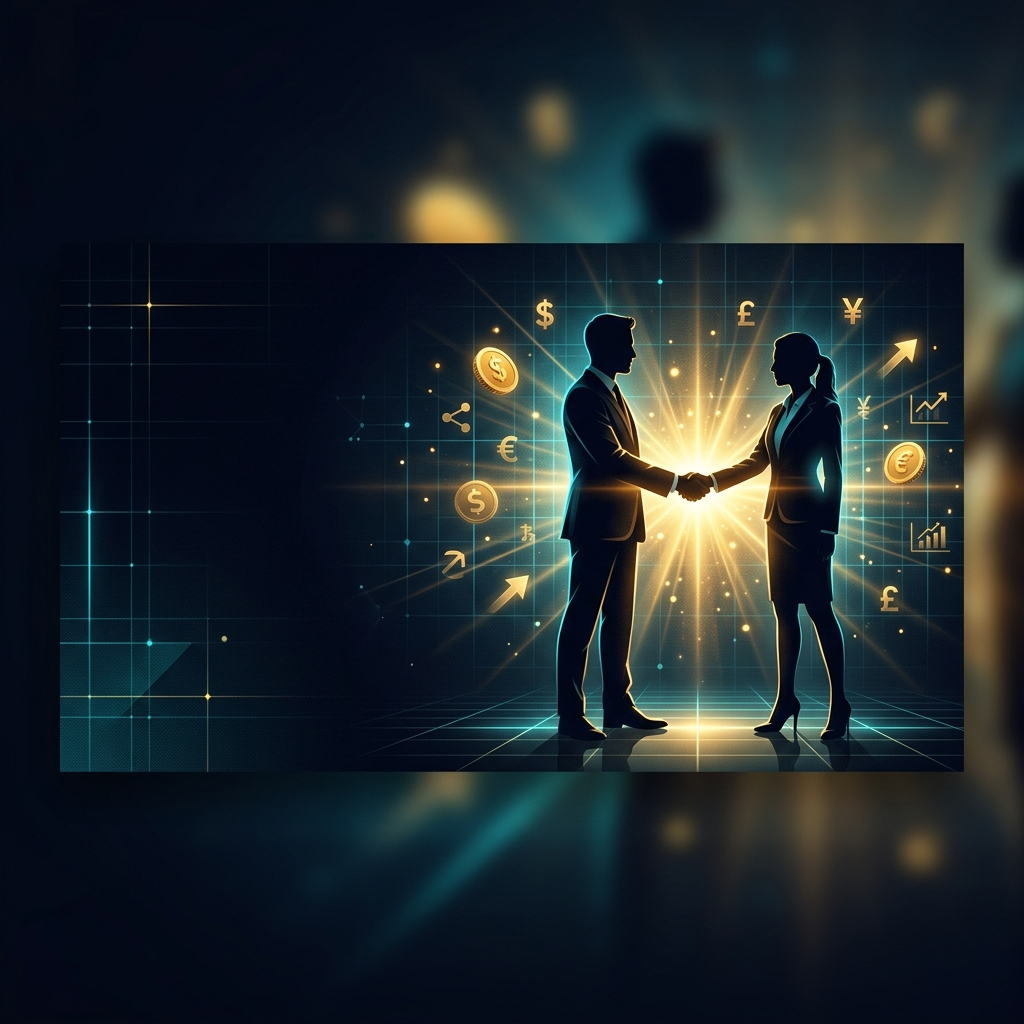
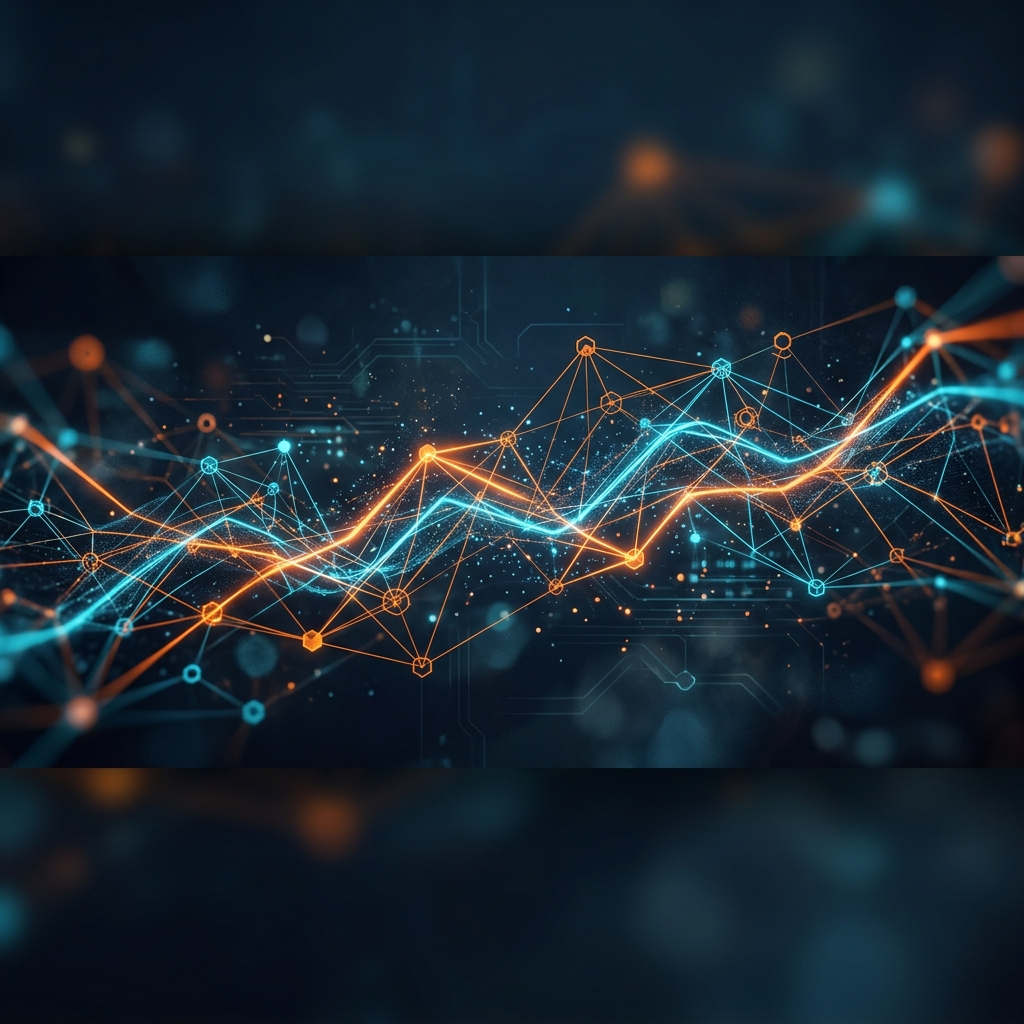
ui: Careers page grid layout, referral hero image, formal About section, label fixes
- Navbar: Jobs -> Careers
- Careers listing: Grid/Row toggle with grid default, 2-column card layout
- Referral Partner: New abstract hero image (no humans)
- Referral Partner About: Formal grouped SVG-icon sections instead of chat bubbles
- Reveal salary -> Reveal commission for Commission-type jobs
- Voice Intro -> Informal Voice Intro for ops assistant

diff --git a/src/components/sections/JobsPage.tsx b/src/components/sections/JobsPage.tsx
@@ -116,42 +116,87 @@ export default function JobsPage(){
 }
 
 function Listing(){
+  const [view, setView] = useState<'grid'|'row'>('grid');
   return(
     <div className="min-h-screen bg-neutral-950 text-neutral-50 pt-24 pb-20">
-      <div className="max-w-4xl mx-auto px-6">
+      <div className="max-w-5xl mx-auto px-6">
         <motion.div initial={{opacity:0,y:20}} animate={{opacity:1,y:0}}>
-          <div className="inline-flex items-center gap-2 px-3 py-1 rounded-full border border-neutral-800 bg-neutral-900/50 text-xs font-medium text-neutral-400 mb-6">
-            <Briefcase className="w-3 h-3 text-[#00bfff]"/>{jobs.length} open position{jobs.length!==1?'s':''}
+          <div className="flex items-center justify-between mb-6">
+            <div className="inline-flex items-center gap-2 px-3 py-1 rounded-full border border-neutral-800 bg-neutral-900/50 text-xs font-medium text-neutral-400">
+              <Briefcase className="w-3 h-3 text-[#00bfff]"/>{jobs.length} open position{jobs.length!==1?'s':''}
+            </div>
+            <div className="flex items-center gap-1 bg-neutral-900/60 border border-neutral-800 rounded-lg p-0.5">
+              <button onClick={()=>setView('grid')} className={`p-1.5 rounded-md cursor-pointer transition-all ${view==='grid' ? 'bg-neutral-800 text-white' : 'text-neutral-500 hover:text-white'}`} title="Grid view">
+                <svg className="w-4 h-4" viewBox="0 0 16 16" fill="none"><rect x="1" y="1" width="6" height="6" rx="1" stroke="currentColor" strokeWidth="1.2"/><rect x="9" y="1" width="6" height="6" rx="1" stroke="currentColor" strokeWidth="1.2"/><rect x="1" y="9" width="6" height="6" rx="1" stroke="currentColor" strokeWidth="1.2"/><rect x="9" y="9" width="6" height="6" rx="1" stroke="currentColor" strokeWidth="1.2"/></svg>
+              </button>
+              <button onClick={()=>setView('row')} className={`p-1.5 rounded-md cursor-pointer transition-all ${view==='row' ? 'bg-neutral-800 text-white' : 'text-neutral-500 hover:text-white'}`} title="Row view">
+                <svg className="w-4 h-4" viewBox="0 0 16 16" fill="none"><rect x="1" y="2" width="14" height="3.5" rx="1" stroke="currentColor" strokeWidth="1.2"/><rect x="1" y="7.5" width="14" height="3.5" rx="1" stroke="currentColor" strokeWidth="1.2"/></svg>
+              </button>
+            </div>
           </div>
           <h1 className="text-4xl md:text-6xl font-black tracking-tighter mb-3">Careers</h1>
           <p className="text-lg text-neutral-400 max-w-xl mb-12">Join a team building custom operations systems for businesses across Ghana and beyond.</p>
         </motion.div>
-        <div className="space-y-4">
-          {jobs.map((j,i)=>(
-            <motion.a key={j.id} href={`#job/${j.id}`}
-              className="block rounded-xl relative overflow-hidden border border-neutral-800 hover:border-neutral-700 transition-all group cursor-pointer shadow-[0_8px_32px_rgba(0,0,0,0.4)]"
-              initial={{opacity:0,y:20}} animate={{opacity:1,y:0}} transition={{delay:0.1+i*0.1}}>
-              <img src={j.heroImage} alt="" className="absolute inset-0 w-full h-full object-cover opacity-30 group-hover:opacity-40 transition-opacity duration-500"/>
-              <div className="absolute inset-0 bg-gradient-to-r from-neutral-950/95 via-neutral-950/80 to-neutral-950/60"/>
-              <div className="relative p-6 md:p-8 flex items-start justify-between gap-4">
-                <div className="flex-1 min-w-0">
-                  <h3 className="text-xl font-bold text-white mb-2 group-hover:text-[#00bfff] transition-colors">{j.title}</h3>
-                  <p className="text-sm text-neutral-300 mb-4 leading-relaxed">{j.shortDesc}</p>
-                  <div className="flex flex-wrap items-center gap-3 text-xs text-neutral-400 mb-4">
-                    <span className={`flex items-center gap-1 ${j.type === 'Commission' ? 'text-[#ff7a00] font-bold' : ''}`}><Clock className="w-3 h-3"/>{j.type}</span>
-                    <span className="text-neutral-700">&#183;</span>
-                    <span className="flex items-center gap-1"><MapPin className="w-3 h-3"/>{j.location}</span>
-                    {j.type === 'Commission' && <span className="px-2 py-0.5 rounded-full bg-[#ff7a00]/15 border border-[#ff7a00]/30 text-[#ff7a00] text-[10px] font-bold tracking-wider">EARN GH₵1,000+</span>}
-                  </div>
-                  <div className="flex flex-wrap gap-2">
-                    {j.perks.map(p=><span key={p} className={`text-[11px] font-medium px-2.5 py-1 rounded-full backdrop-blur-sm border ${j.type === 'Commission' ? 'bg-[#ff7a00]/5 border-[#ff7a00]/15 text-[#ff7a00]/80' : 'bg-white/5 border-white/10 text-neutral-300'}`}>{p}</span>)}
+
+        {view === 'grid' ? (
+          /* ── GRID VIEW ── */
+          <div className="grid md:grid-cols-2 gap-5">
+            {jobs.map((j,i)=>(
+              <motion.a key={j.id} href={`#job/${j.id}`}
+                className="block rounded-xl relative overflow-hidden border border-neutral-800 hover:border-neutral-700 transition-all group cursor-pointer shadow-[0_8px_32px_rgba(0,0,0,0.4)] flex flex-col"
+                initial={{opacity:0,y:20}} animate={{opacity:1,y:0}} transition={{delay:0.1+i*0.1}}>
+                {/* Hero image top */}
+                <div className="relative h-44 overflow-hidden flex-shrink-0">
+                  <img src={j.heroImage} alt="" className="w-full h-full object-cover opacity-50 group-hover:opacity-60 group-hover:scale-105 transition-all duration-500"/>
+                  <div className="absolute inset-0 bg-gradient-to-t from-neutral-950 via-neutral-950/40 to-transparent"/>
+                  <div className="absolute top-3 left-3 flex items-center gap-2">
+                    <span className={`px-2 py-0.5 rounded-full text-[10px] font-bold tracking-wider backdrop-blur-sm ${j.type==='Commission'?'bg-[#ff7a00]/20 border border-[#ff7a00]/30 text-[#ff7a00]':'bg-white/10 border border-white/10 text-white'}`}>{j.type}</span>
                   </div>
                 </div>
-                <ChevronRight className="w-5 h-5 text-neutral-600 group-hover:text-[#00bfff] group-hover:translate-x-1 transition-all flex-shrink-0 mt-1"/>
-              </div>
-            </motion.a>
-          ))}
-        </div>
+                {/* Content */}
+                <div className="relative p-5 flex-1 flex flex-col">
+                  <h3 className="text-lg font-bold text-white mb-2 group-hover:text-[#00bfff] transition-colors">{j.title}</h3>
+                  <p className="text-sm text-neutral-400 mb-4 leading-relaxed flex-1">{j.shortDesc}</p>
+                  <div className="flex flex-wrap items-center gap-2 text-xs text-neutral-500 mb-3">
+                    <span className="flex items-center gap-1"><MapPin className="w-3 h-3"/>{j.location}</span>
+                    {j.type === 'Commission' && <span className="px-2 py-0.5 rounded-full bg-[#ff7a00]/10 border border-[#ff7a00]/20 text-[#ff7a00] text-[10px] font-bold">EARN GH₵1,000+</span>}
+                  </div>
+                  <div className="flex flex-wrap gap-1.5">
+                    {j.perks.map(p=><span key={p} className={`text-[10px] font-medium px-2 py-0.5 rounded-full border ${j.type==='Commission'?'bg-[#ff7a00]/5 border-[#ff7a00]/15 text-[#ff7a00]/80':'bg-white/5 border-white/10 text-neutral-400'}`}>{p}</span>)}
+                  </div>
+                </div>
+              </motion.a>
+            ))}
+          </div>
+        ) : (
+          /* ── ROW VIEW ── */
+          <div className="space-y-4">
+            {jobs.map((j,i)=>(
+              <motion.a key={j.id} href={`#job/${j.id}`}
+                className="block rounded-xl relative overflow-hidden border border-neutral-800 hover:border-neutral-700 transition-all group cursor-pointer shadow-[0_8px_32px_rgba(0,0,0,0.4)]"
+                initial={{opacity:0,y:20}} animate={{opacity:1,y:0}} transition={{delay:0.1+i*0.1}}>
+                <img src={j.heroImage} alt="" className="absolute inset-0 w-full h-full object-cover opacity-30 group-hover:opacity-40 transition-opacity duration-500"/>
+                <div className="absolute inset-0 bg-gradient-to-r from-neutral-950/95 via-neutral-950/80 to-neutral-950/60"/>
+                <div className="relative p-6 md:p-8 flex items-start justify-between gap-4">
+                  <div className="flex-1 min-w-0">
+                    <h3 className="text-xl font-bold text-white mb-2 group-hover:text-[#00bfff] transition-colors">{j.title}</h3>
+                    <p className="text-sm text-neutral-300 mb-4 leading-relaxed">{j.shortDesc}</p>
+                    <div className="flex flex-wrap items-center gap-3 text-xs text-neutral-400 mb-4">
+                      <span className={`flex items-center gap-1 ${j.type === 'Commission' ? 'text-[#ff7a00] font-bold' : ''}`}><Clock className="w-3 h-3"/>{j.type}</span>
+                      <span className="text-neutral-700">&#183;</span>
+                      <span className="flex items-center gap-1"><MapPin className="w-3 h-3"/>{j.location}</span>
+                      {j.type === 'Commission' && <span className="px-2 py-0.5 rounded-full bg-[#ff7a00]/15 border border-[#ff7a00]/30 text-[#ff7a00] text-[10px] font-bold tracking-wider">EARN GH₵1,000+</span>}
+                    </div>
+                    <div className="flex flex-wrap gap-2">
+                      {j.perks.map(p=><span key={p} className={`text-[11px] font-medium px-2.5 py-1 rounded-full backdrop-blur-sm border ${j.type === 'Commission' ? 'bg-[#ff7a00]/5 border-[#ff7a00]/15 text-[#ff7a00]/80' : 'bg-white/5 border-white/10 text-neutral-300'}`}>{p}</span>)}
+                    </div>
+                  </div>
+                  <ChevronRight className="w-5 h-5 text-neutral-600 group-hover:text-[#00bfff] group-hover:translate-x-1 transition-all flex-shrink-0 mt-1"/>
+                </div>
+              </motion.a>
+            ))}
+          </div>
+        )}
         <div className="mt-12 text-center">
           <p className="text-sm text-neutral-500">{"Don't see a fit? Email "}<a href="mailto:[email redacted]" className="text-[#00bfff] hover:underline">[email redacted]</a>{" anyway."}</p>
         </div>
@@ -188,7 +233,7 @@ function Detail({job}:{job:typeof jobs[0]}){
               <span className="flex items-center gap-1 text-sm text-neutral-300"><MapPin className="w-3.5 h-3.5"/>{job.location}</span>
               <button onClick={()=>setShowSalary(!showSalary)} className="flex items-center gap-1.5 text-[#ff7a00] hover:text-[#ff9533] transition-colors cursor-pointer text-sm font-medium">
                 <span className="text-base font-bold leading-none">₵</span>
-                {showSalary?job.salary:'Reveal salary'}{showSalary?<EyeOff className="w-3 h-3"/>:<Eye className="w-3 h-3"/>}
+                {showSalary?job.salary:(job.type === 'Commission' ? 'Reveal commission' : 'Reveal salary')}{showSalary?<EyeOff className="w-3 h-3"/>:<Eye className="w-3 h-3"/>}
               </button>
             </div>
             {/* CTA #1 */}
@@ -209,65 +254,92 @@ function Detail({job}:{job:typeof jobs[0]}){
                   <span className="w-8 h-8 rounded-lg bg-[#00bfff]/10 flex items-center justify-center"><ChevronRight className="w-4 h-4 text-[#00bfff]"/></span>
                   About This Role
                 </h2>
-                {/* Chat interface */}
-                <div className="rounded-2xl border border-neutral-800 bg-neutral-900/30 overflow-hidden">
-                  {/* Chat header */}
-                  <div className="flex items-center gap-3 px-5 py-3 bg-neutral-900/80 border-b border-neutral-800">
-                    <img src="/icuni_logo.png" alt="ICUNI Labs" className="w-9 h-9 rounded-full bg-neutral-800 p-1 object-contain"/>
-                    <div>
-                      <p className="text-sm font-semibold text-white">ICUNI Labs</p>
-                      <p className="text-[10px] text-[#10b981] flex items-center gap-1"><span className="w-1.5 h-1.5 rounded-full bg-[#10b981] inline-block"/>Online now</p>
+
+                {job.type === 'Commission' ? (
+                  /* ── FORMAL GROUPED LAYOUT for Commission/Referral ── */
+                  <div className="space-y-6">
+                    {(() => {
+                      const groups = [
+                        { title: 'What We Do', icon: <svg className="w-5 h-5" viewBox="0 0 20 20" fill="none"><rect x="2" y="3" width="16" height="14" rx="2" stroke="#00bfff" strokeWidth="1.2"/><path d="M6 8h8M6 11h5" stroke="#00bfff" strokeWidth="1" strokeLinecap="round"/></svg>, items: job.fullDescription.slice(0, 2) },
+                        { title: 'The Opportunity', icon: <svg className="w-5 h-5" viewBox="0 0 20 20" fill="none"><circle cx="10" cy="10" r="7" stroke="#ff7a00" strokeWidth="1.2"/><text x="10" y="13" textAnchor="middle" fill="#ff7a00" fontSize="8" fontWeight="bold">$</text></svg>, items: job.fullDescription.slice(2, 4) },
+                        { title: 'How It Works', icon: <svg className="w-5 h-5" viewBox="0 0 20 20" fill="none"><path d="M3 16l4-5 3 3 4-6 3 4" stroke="#10b981" strokeWidth="1.5" strokeLinecap="round" strokeLinejoin="round"/></svg>, items: job.fullDescription.slice(4, 7) },
+                        { title: 'The Bottom Line', icon: <svg className="w-5 h-5" viewBox="0 0 20 20" fill="none"><path d="M10 2l2.5 5 5.5.8-4 3.9.9 5.3-4.9-2.6-4.9 2.6.9-5.3-4-3.9 5.5-.8z" stroke="#ff7a00" strokeWidth="1.2" fill="rgba(255,122,0,0.15)"/></svg>, items: job.fullDescription.slice(7) },
+                      ].filter(g => g.items.length > 0);
+                      return groups.map((g, gi) => (
+                        <motion.div key={gi} initial={{opacity:0,y:20}} whileInView={{opacity:1,y:0}} viewport={{once:true}} transition={{delay:gi*0.1}}
+                          className="rounded-xl border border-neutral-800 bg-neutral-900/30 overflow-hidden">
+                          <div className="flex items-center gap-3 px-5 py-3 bg-neutral-900/60 border-b border-neutral-800">
+                            {g.icon}
+                            <h3 className="text-sm font-bold text-white tracking-wide">{g.title}</h3>
+                          </div>
+                          <div className="p-5 space-y-3">
+                            {g.items.map((item, ii) => (
+                              <div key={ii} className="flex items-start gap-3">
+                                <div className="w-1.5 h-1.5 rounded-full bg-[#00bfff] mt-2 flex-shrink-0"/>
+                                <p className="text-[14px] text-neutral-300 leading-relaxed">{item}</p>
+                              </div>
+                            ))}
+                          </div>
+                        </motion.div>
+                      ));
+                    })()}
+                  </div>
+                ) : (
+                  /* ── CHAT INTERFACE for standard jobs ── */
+                  <div className="rounded-2xl border border-neutral-800 bg-neutral-900/30 overflow-hidden">
+                    <div className="flex items-center gap-3 px-5 py-3 bg-neutral-900/80 border-b border-neutral-800">
+                      <img src="/icuni_logo.png" alt="ICUNI Labs" className="w-9 h-9 rounded-full bg-neutral-800 p-1 object-contain"/>
+                      <div>
+                        <p className="text-sm font-semibold text-white">ICUNI Labs</p>
+                        <p className="text-[10px] text-[#10b981] flex items-center gap-1"><span className="w-1.5 h-1.5 rounded-full bg-[#10b981] inline-block"/>Online now</p>
+                      </div>
+                    </div>
+                    <div className="p-3 space-y-0 min-h-[200px]">
+                      {job.fullDescription.map((msg,i)=>{
+                        const total=job.fullDescription.length;
+                        const minsAgo=total-1-i;
+                        const timeLabel=minsAgo===0?'Now':minsAgo===1?'1m ago':`${minsAgo}m ago`;
+                        return(
+                          <div key={i}>
+                            <motion.div
+                              initial={{opacity:1}} whileInView={{opacity:0}}
+                              viewport={{once:true,margin:'-10px'}}
+                              transition={{duration:0.25,delay:0.5}}
+                              className="mb-0.5"
+                            >
+                              <div className="flex gap-1 px-3 py-2 rounded-2xl rounded-br-sm bg-[#ff7a00]/10 border border-[#ff7a00]/10 w-fit ml-auto">
+                                <span className="w-1.5 h-1.5 rounded-full bg-[#ff7a00]/60 animate-bounce" style={{animationDelay:'0ms'}}/>
+                                <span className="w-1.5 h-1.5 rounded-full bg-[#ff7a00]/60 animate-bounce" style={{animationDelay:'150ms'}}/>
+                                <span className="w-1.5 h-1.5 rounded-full bg-[#ff7a00]/60 animate-bounce" style={{animationDelay:'300ms'}}/>
+                              </div>
+                            </motion.div>
+                            <motion.div
+                              initial={{opacity:0,y:16,scale:0.92}}
+                              whileInView={{opacity:1,y:0,scale:1}}
+                              onViewportEnter={()=>setLatestMsg(m=>Math.max(m,i))}
+                              viewport={{once:true,margin:'-10px'}}
+                              transition={{duration:0.35,delay:0.55,ease:'easeOut'}}
+                              className="mb-1.5"
+                            >
+                              <div className="max-w-[80%] ml-auto group">
+                                <div className={`relative px-4 py-2.5 rounded-2xl rounded-br-sm text-[14px] leading-[1.7] transition-all duration-500 group-hover:shadow-[0_4px_20px_rgba(255,122,0,0.2)] group-hover:-translate-y-[1px] ${
+                                  latestMsg===i?'bg-gradient-to-br from-[#ff7a00]/25 to-[#cc5500]/15 border border-[#ff7a00]/30 text-white shadow-[0_2px_12px_rgba(255,122,0,0.1)]'
+                                  :'bg-gradient-to-br from-[#ff7a00]/8 to-neutral-800/80 border border-[#ff7a00]/10 text-neutral-200 group-hover:border-[#ff7a00]/25'
+                                }`}>
+                                  {msg}
+                                  <svg className="absolute -bottom-[6px] right-3 w-3 h-2" viewBox="0 0 12 8" fill="none">
+                                    <path d="M0 0L6 8L12 0Z" fill={latestMsg===i?'rgba(180,80,0,0.2)':'rgba(100,60,20,0.15)'}/>
+                                  </svg>
+                                </div>
+                                <p className="text-[10px] text-neutral-600 mt-1 text-right mr-1">{timeLabel}</p>
+                              </div>
+                            </motion.div>
+                          </div>
+                        );
+                      })}
                     </div>
                   </div>
-                  {/* Messages */}
-                  <div className="p-3 space-y-0 min-h-[200px]">
-                    {job.fullDescription.map((msg,i)=>{
-                      const total=job.fullDescription.length;
-                      const minsAgo=total-1-i;
-                      const timeLabel=minsAgo===0?'Now':minsAgo===1?'1m ago':`${minsAgo}m ago`;
-                      return(
-                        <div key={i}>
-                          {/* Typing indicator appears first */}
-                          <motion.div
-                            initial={{opacity:1}} whileInView={{opacity:0}}
-                            viewport={{once:true,margin:'-10px'}}
-                            transition={{duration:0.25,delay:0.5}}
-                            className="mb-0.5"
-                          >
-                            <div className="flex gap-1 px-3 py-2 rounded-2xl rounded-br-sm bg-[#ff7a00]/10 border border-[#ff7a00]/10 w-fit ml-auto">
-                              <span className="w-1.5 h-1.5 rounded-full bg-[#ff7a00]/60 animate-bounce" style={{animationDelay:'0ms'}}/>
-                              <span className="w-1.5 h-1.5 rounded-full bg-[#ff7a00]/60 animate-bounce" style={{animationDelay:'150ms'}}/>
-                              <span className="w-1.5 h-1.5 rounded-full bg-[#ff7a00]/60 animate-bounce" style={{animationDelay:'300ms'}}/>
-                            </div>
-                          </motion.div>
-                          {/* Message bubble */}
-                          <motion.div
-                            initial={{opacity:0,y:16,scale:0.92}}
-                            whileInView={{opacity:1,y:0,scale:1}}
-                            onViewportEnter={()=>setLatestMsg(m=>Math.max(m,i))}
-                            viewport={{once:true,margin:'-10px'}}
-                            transition={{duration:0.35,delay:0.55,ease:'easeOut'}}
-                            className="mb-1.5"
-                          >
-                            <div className="max-w-[80%] ml-auto group">
-                              <div className={`relative px-4 py-2.5 rounded-2xl rounded-br-sm text-[14px] leading-[1.7] transition-all duration-500 group-hover:shadow-[0_4px_20px_rgba(255,122,0,0.2)] group-hover:-translate-y-[1px] ${
-                                latestMsg===i?'bg-gradient-to-br from-[#ff7a00]/25 to-[#cc5500]/15 border border-[#ff7a00]/30 text-white shadow-[0_2px_12px_rgba(255,122,0,0.1)]'
-                                :'bg-gradient-to-br from-[#ff7a00]/8 to-neutral-800/80 border border-[#ff7a00]/10 text-neutral-200 group-hover:border-[#ff7a00]/25'
-                              }`}>
-                                {msg}
-                                {/* Speech tail */}
-                                <svg className="absolute -bottom-[6px] right-3 w-3 h-2" viewBox="0 0 12 8" fill="none">
-                                  <path d="M0 0L6 8L12 0Z" fill={latestMsg===i?'rgba(180,80,0,0.2)':'rgba(100,60,20,0.15)'}/>
-                                </svg>
-                              </div>
-                              <p className="text-[10px] text-neutral-600 mt-1 text-right mr-1">{timeLabel}</p>
-                            </div>
-                          </motion.div>
-                        </div>
-                      );
-                    })}
-                  </div>
-                </div>
+                )}
               </motion.div>
             </section>
 
@@ -553,7 +625,7 @@ function AppForm({job}:{job:typeof jobs[0]}){
 
         {/* Voice Intro: tab toggle record vs upload */}
         <div>
-          <label className="block text-xs font-bold uppercase tracking-wider text-neutral-500 mb-1">Voice Intro <span className="text-red-500">*</span></label>
+          <label className="block text-xs font-bold uppercase tracking-wider text-neutral-500 mb-1">Informal Voice Intro <span className="text-red-500">*</span></label>
           <p className="text-xs text-neutral-400 mb-2">Tell us why you're right for this role — between <strong className="text-neutral-300">15 seconds</strong> and <strong className="text-neutral-300">2 minutes</strong></p>
           <TabToggle tabs={['Record','Upload File']} active={voiceTab} onChange={setVoiceTab}/>
           {voiceTab===0?(

diff --git a/src/components/layout/Navbar.tsx b/src/components/layout/Navbar.tsx
@@ -95,7 +95,7 @@ export default function Navbar() {
                     </div>
 
                     <a href="#portfolio" className="hover:text-neutral-50 transition-colors">Portfolio</a>
-                    <a href="#jobs" className="hover:text-neutral-50 transition-colors">Jobs</a>
+                    <a href="#jobs" className="hover:text-neutral-50 transition-colors">Careers</a>
                 </nav>
 
                 {/* CTA + Mobile Toggle */}
@@ -148,7 +148,7 @@ export default function Navbar() {
                     </div>
 
                     <a href="#portfolio" className="py-3 hover:text-white transition-colors border-b border-neutral-900" onClick={() => setMobileOpen(false)}>Portfolio</a>
-                    <a href="#jobs" className="py-3 hover:text-white transition-colors border-b border-neutral-900" onClick={() => setMobileOpen(false)}>Jobs</a>
+                    <a href="#jobs" className="py-3 hover:text-white transition-colors border-b border-neutral-900" onClick={() => setMobileOpen(false)}>Careers</a>
                     <a href="#referral" className="py-3 hover:text-white transition-colors border-b border-neutral-900 bg-gradient-to-r from-[#ff7a00] to-[#ff9533] bg-clip-text text-transparent font-semibold" onClick={() => setMobileOpen(false)}>Refer & Earn</a>
                     <a href="#portal" className="py-3 hover:text-white transition-colors border-b border-neutral-900" onClick={() => setMobileOpen(false)}>Client Login</a>
 